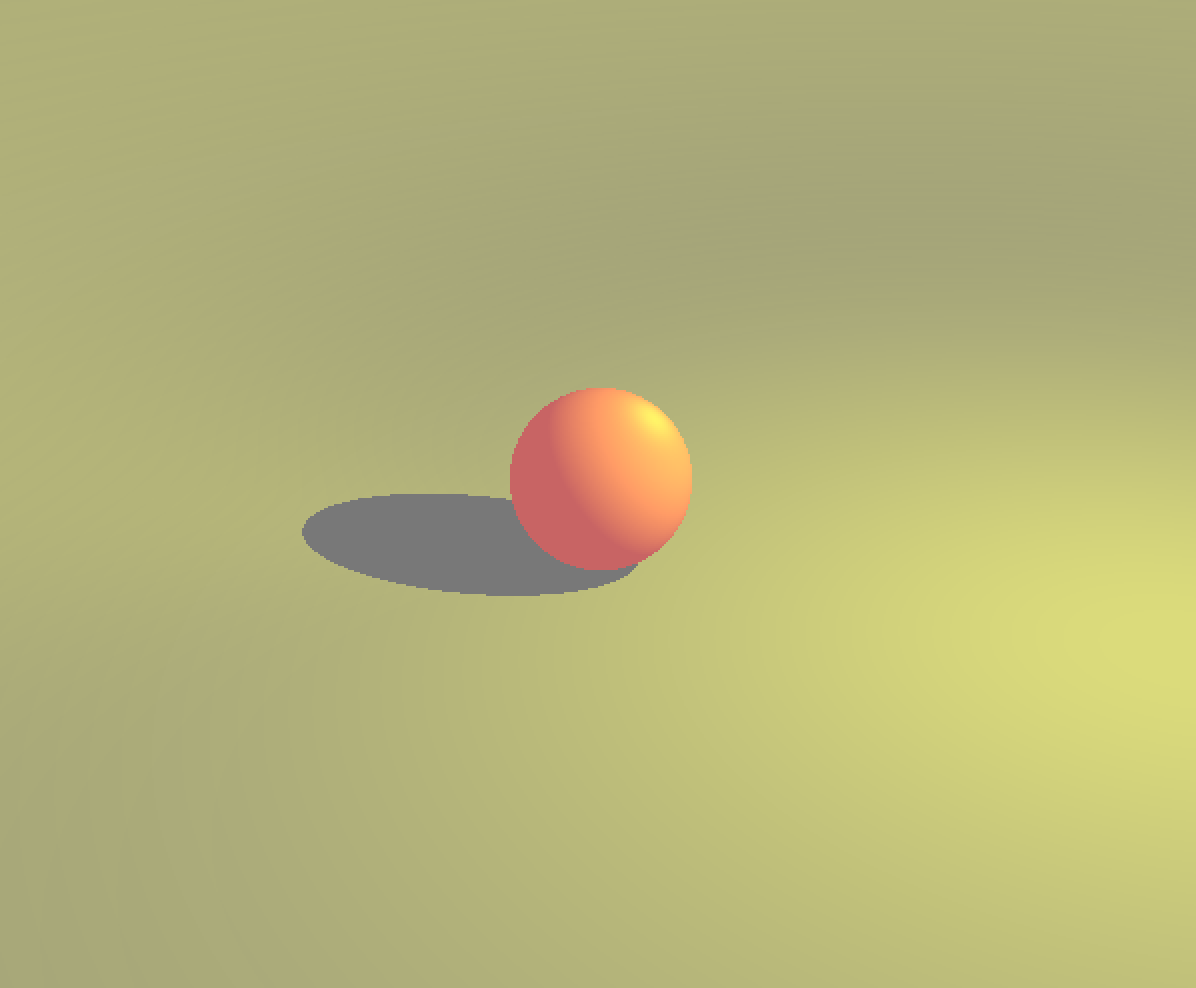
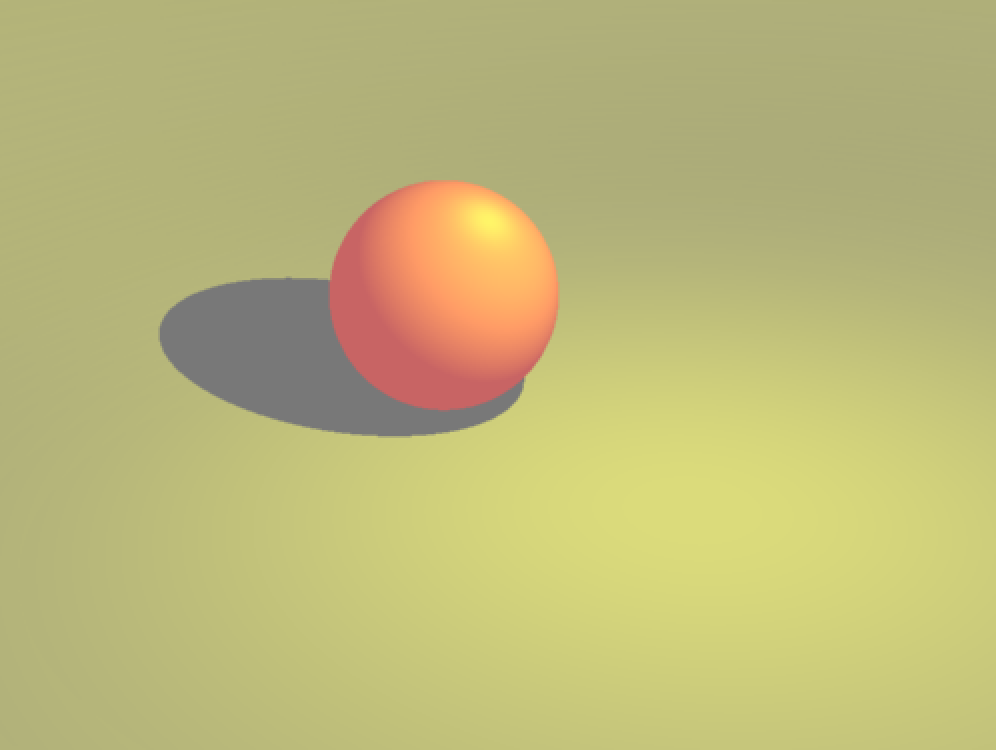
Updating Pictures

Changed region(s): [[0.1556, 0.2147, 0.5914, 0.6133]]

diff --git a/Scene.java b/Scene.java
@@ -12,23 +12,29 @@ public class Scene {										// x goes right, y goes up, z goes out.
 															 * corner of the screen. */
 	private int X;											// Dimensions in terms of screen pixels
 	private int Y;
-	private Camera cam = new Camera(-300,2000,1700, new Vector(0,-1,-1),new Vector(0,1,-1),1000);	
+	private Camera cam = new Camera(0,800,1600, new Vector(0,-1,-2),new Vector(0,2,-1),1000);	
 				// position, direction, up, distance from screen
 	Tintable grey = new Tintable(50,50,50);
 	Tintable green = new Tintable(10,100,10);
 	Tintable red = new Tintable(250,0,0);
 	Tintable yellow = new Tintable(250,250,10); // colours to use
-	private Shape[] shapes = new Shape[] { new InfPlane(0,0,0, new Point(0,1,0), grey, Material.MAT1),
+	/*private Shape[] shapes = new Shape[] { new InfPlane(0,0,0, new Point(0,1,0), grey, Material.MAT1),
 										   new Sphere(-500,50,-500, 50, red, Material.MAT1),
 										   new Sphere(-100,100,-100, 100, green, Material.MAT1)}; // List of shapes in scene.
 	private Light[] lights = new Light[] { new Light(200,300,200, yellow) };  // List of lights in scene
+	*/
 	
-	/*private Shape[] shapes = new Shape[] { new Sphere(grey, Material.MAT1, 0,100,200, 50),  // Alternative scene
-										   new Sphere(grey, Material.MAT1, 0,-150,0, 200)}; 
+	/*private Shape[] shapes = new Shape[] { new Sphere(0,100,200, 50, grey, Material.MAT1),  // Alternative scene
+										   new Sphere(0,-150,0, 200, grey, Material.MAT1)}; 
 	private Light[] lights = new Light[] {new Light(25,200,250, yellow),
 										  new Light(-300,-150,300, red),
-										  new Light(100,-400,150, green)};// new Tintable(200,200,200))};	
-	*/
+										  new Light(100,-400,150, green)};// new Tintable(200,200,200))}; 
+	*/	
+	
+	private Shape[] shapes = new Shape[] { new Sphere(0,100,0, 100, red, Material.MAT1),
+										   new InfPlane(0,0,0, new Point(0,1,0), grey, Material.MAT1) };
+	private Light[] lights = new Light[] { new Light(200,400,200, yellow) };
+	
 	public Scene(int h, int w, int X, int Y){
 		height = h;	// monitor
 		width = w;
